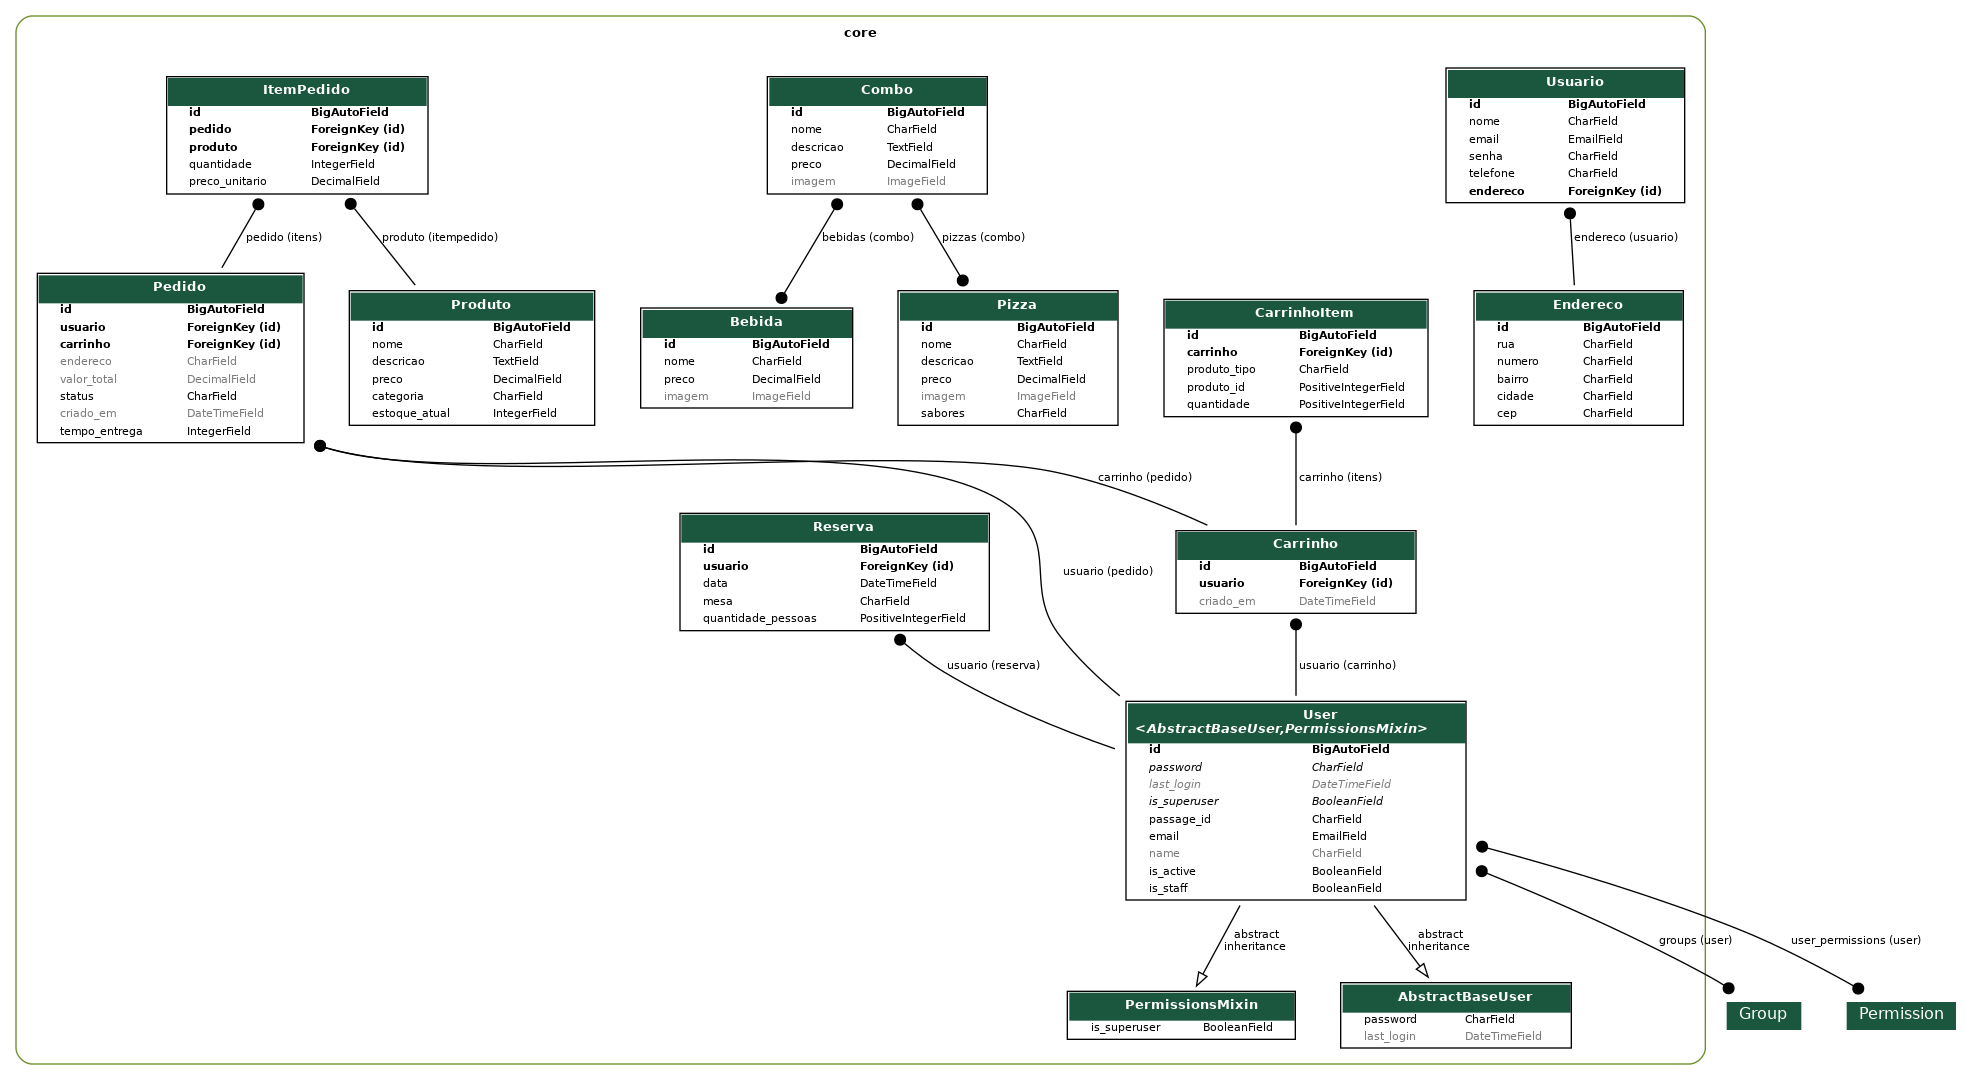
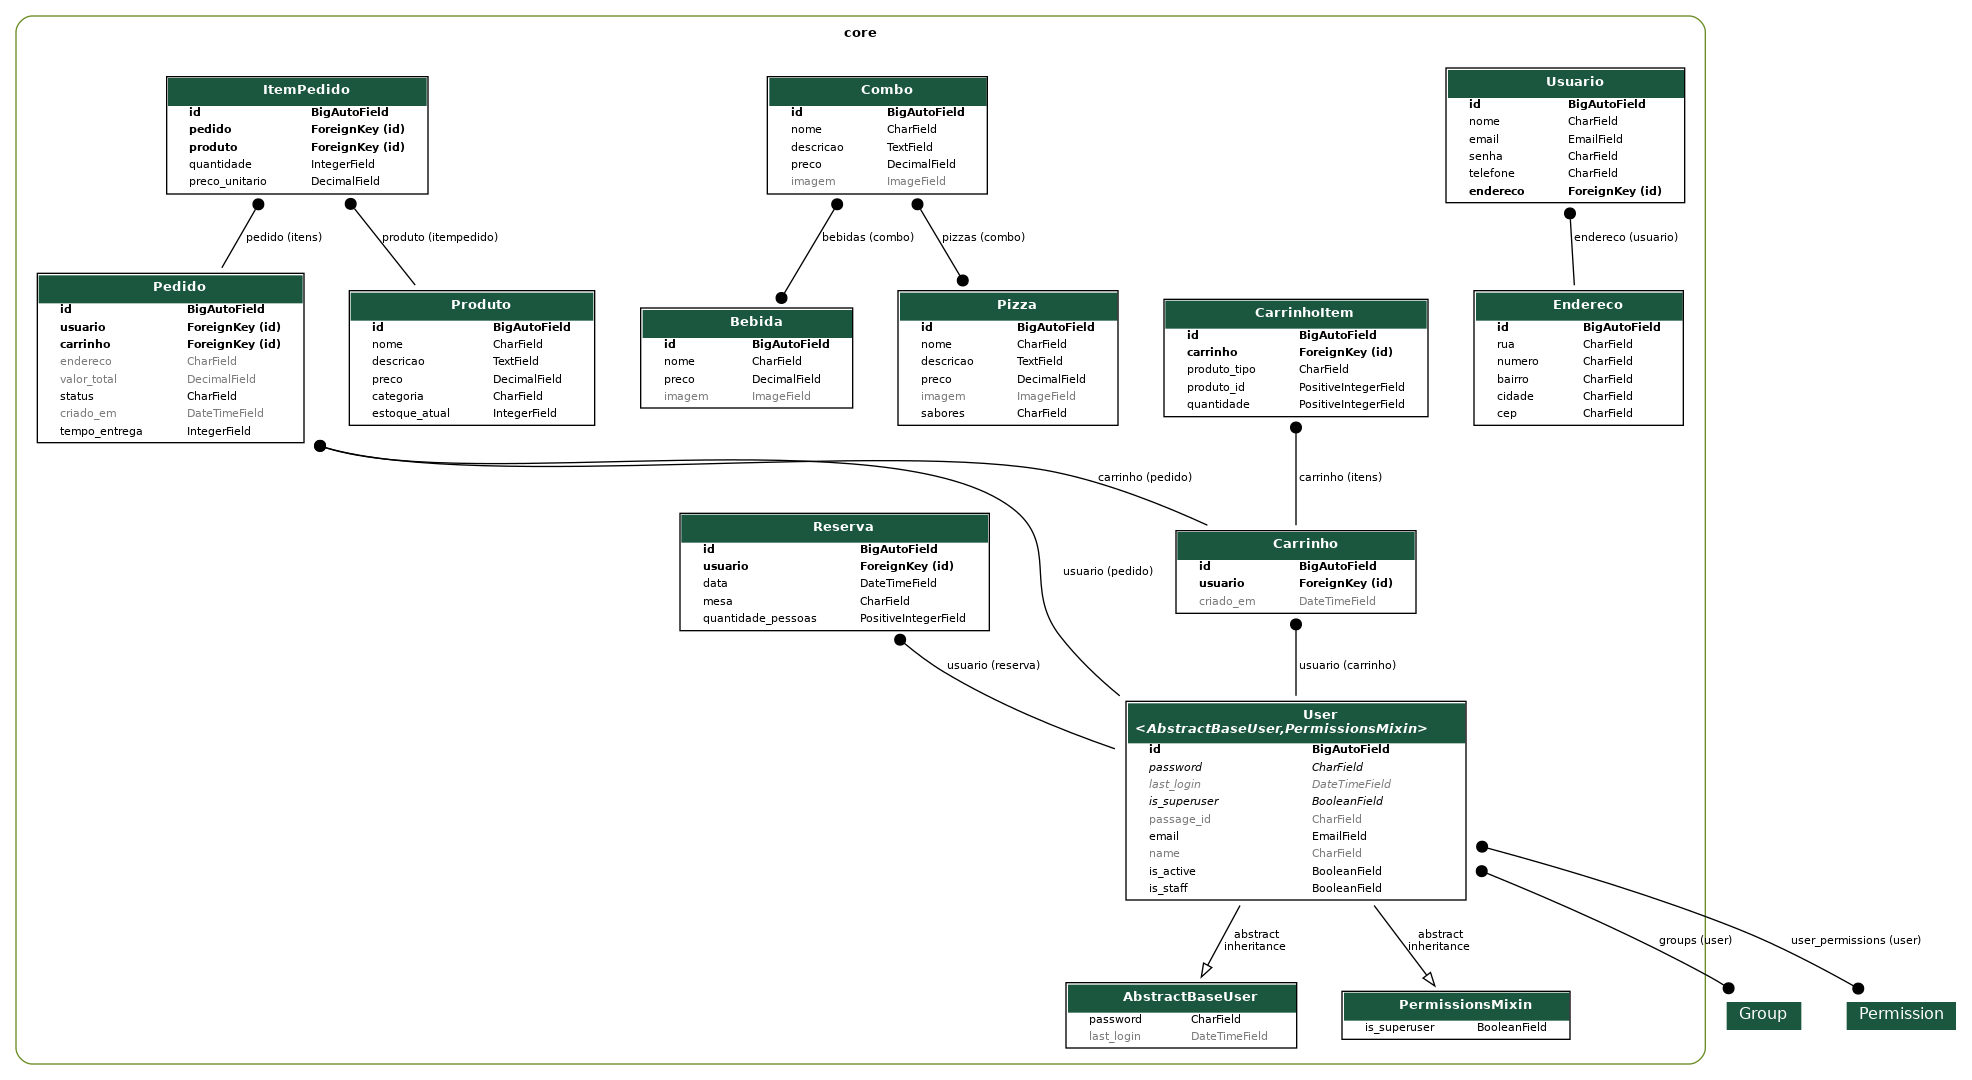
feat:Implementação do login e cadastro no frontend #1

Changed region(s): [[0.5259, 0.8861, 0.8043, 0.9778]]

diff --git a/core/models/user.py b/core/models/user.py
@@ -16,20 +16,21 @@ class UserManager(BaseUserManager):
 
     use_in_migrations = True
 
-    def create_user(self, email, password=None, **extra_fields):
+    def create_user(self, email, password=None, name=None, **extra_fields):
         """Create, save and return a new user."""
         if not email:
             raise ValueError('Users must have an email address.')
 
+        extra_fields['name'] = name
         user = self.model(email=self.normalize_email(email), **extra_fields)
         user.set_password(password)
         user.save(using=self._db)
 
         return user
 
-    def create_superuser(self, email, password):
+    def create_superuser(self, email, password, name=None):
         """Create, save and return a new superuser."""
-        user = self.create_user(email, password)
+        user = self.create_user(email, password, name=name)
         user.is_staff = True
         user.is_superuser = True
         user.save(using=self._db)
@@ -40,7 +41,7 @@ class UserManager(BaseUserManager):
 class User(AbstractBaseUser, PermissionsMixin):
     """User model in the system."""
 
-    passage_id = models.CharField(max_length=255, unique=True, verbose_name=_('passage_id'), help_text=_('Passage ID'))
+    passage_id = models.CharField(max_length=255, blank=True, null=True, verbose_name=_('passage_id'), help_text=_('Passage ID'))
     email = models.EmailField(max_length=255, unique=True, verbose_name=_('email'), help_text=_('Email'))
     name = models.CharField(max_length=255, blank=True, null=True, verbose_name=_('name'), help_text=_('Username'))
     is_active = models.BooleanField(

diff --git a/core/migrations/0002_alter_user_passage_id.py b/core/migrations/0002_alter_user_passage_id.py
@@ -1,0 +1,18 @@
+# Generated by Django 5.1.7 on 2025-09-09 19:26
+
+from django.db import migrations, models
+
+
+class Migration(migrations.Migration):
+
+    dependencies = [
+        ('core', '0001_initial'),
+    ]
+
+    operations = [
+        migrations.AlterField(
+            model_name='user',
+            name='passage_id',
+            field=models.CharField(blank=True, help_text='Passage ID', max_length=255, null=True, verbose_name='passage_id'),
+        ),
+    ]

diff --git a/app/settings.py b/app/settings.py
@@ -157,6 +157,13 @@ REST_FRAMEWORK = {
     'PAGE_SIZE': 10,
 }
 
+DJOSER = {
+    'SERIALIZERS': {
+        'user_create': 'core.serializers.user.UserSerializer',
+        'user': 'core.serializers.user.UserSerializer',
+    }
+}
+
 PASSAGE_APP_ID = os.getenv('PASSAGE_APP_ID', 'app_id')
 PASSAGE_API_KEY = os.getenv('PASSAGE_API_KEY', 'api_key')
 PASSAGE_AUTH_STRATEGY = 2

diff --git a/core/serializers/user.py b/core/serializers/user.py
@@ -6,5 +6,6 @@ from core.models import User
 class UserSerializer(ModelSerializer):
     class Meta:
         model = User
-        fields = '__all__'
-        depth = 1
+        fields = ['id', 'email', 'name', 'password', 'is_active', 'is_staff']
+        extra_kwargs = {'password': {'write_only': True}}
+

diff --git a/app/urls.py b/app/urls.py
@@ -42,4 +42,6 @@ urlpatterns = [
     path('api/', include(router.urls)),
     path('api/auth/', include('djoser.urls')),
     path('api/auth/', include('djoser.urls.jwt')),
+    path('auth/', include('djoser.urls')),
+    path('auth/', include('djoser.urls.jwt')),
 ]
